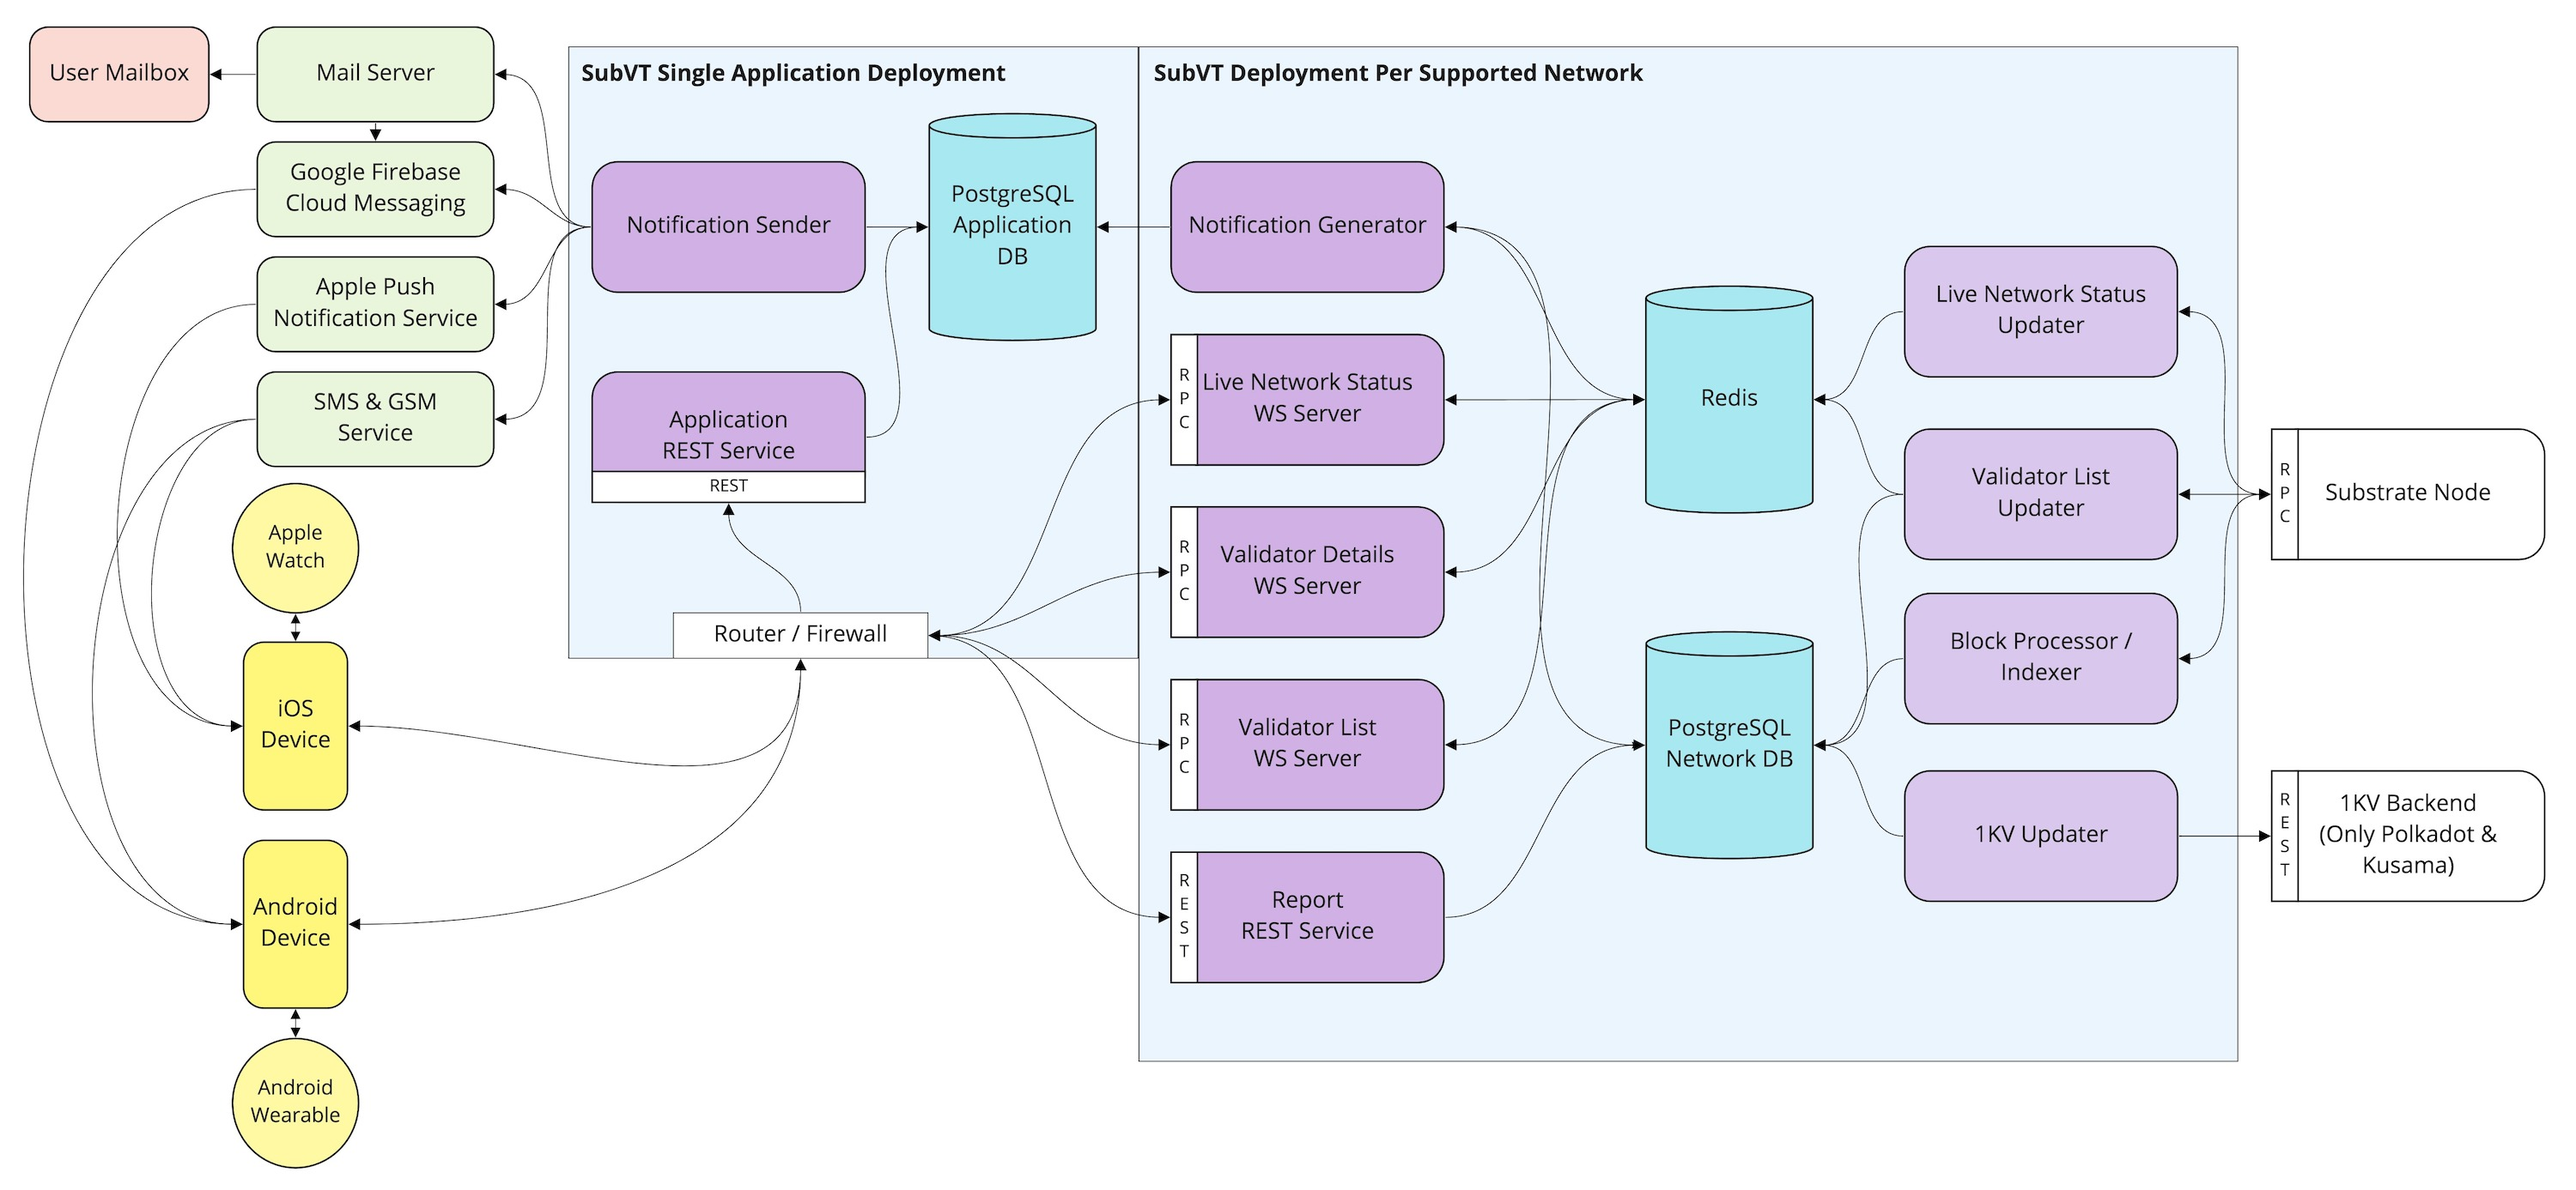
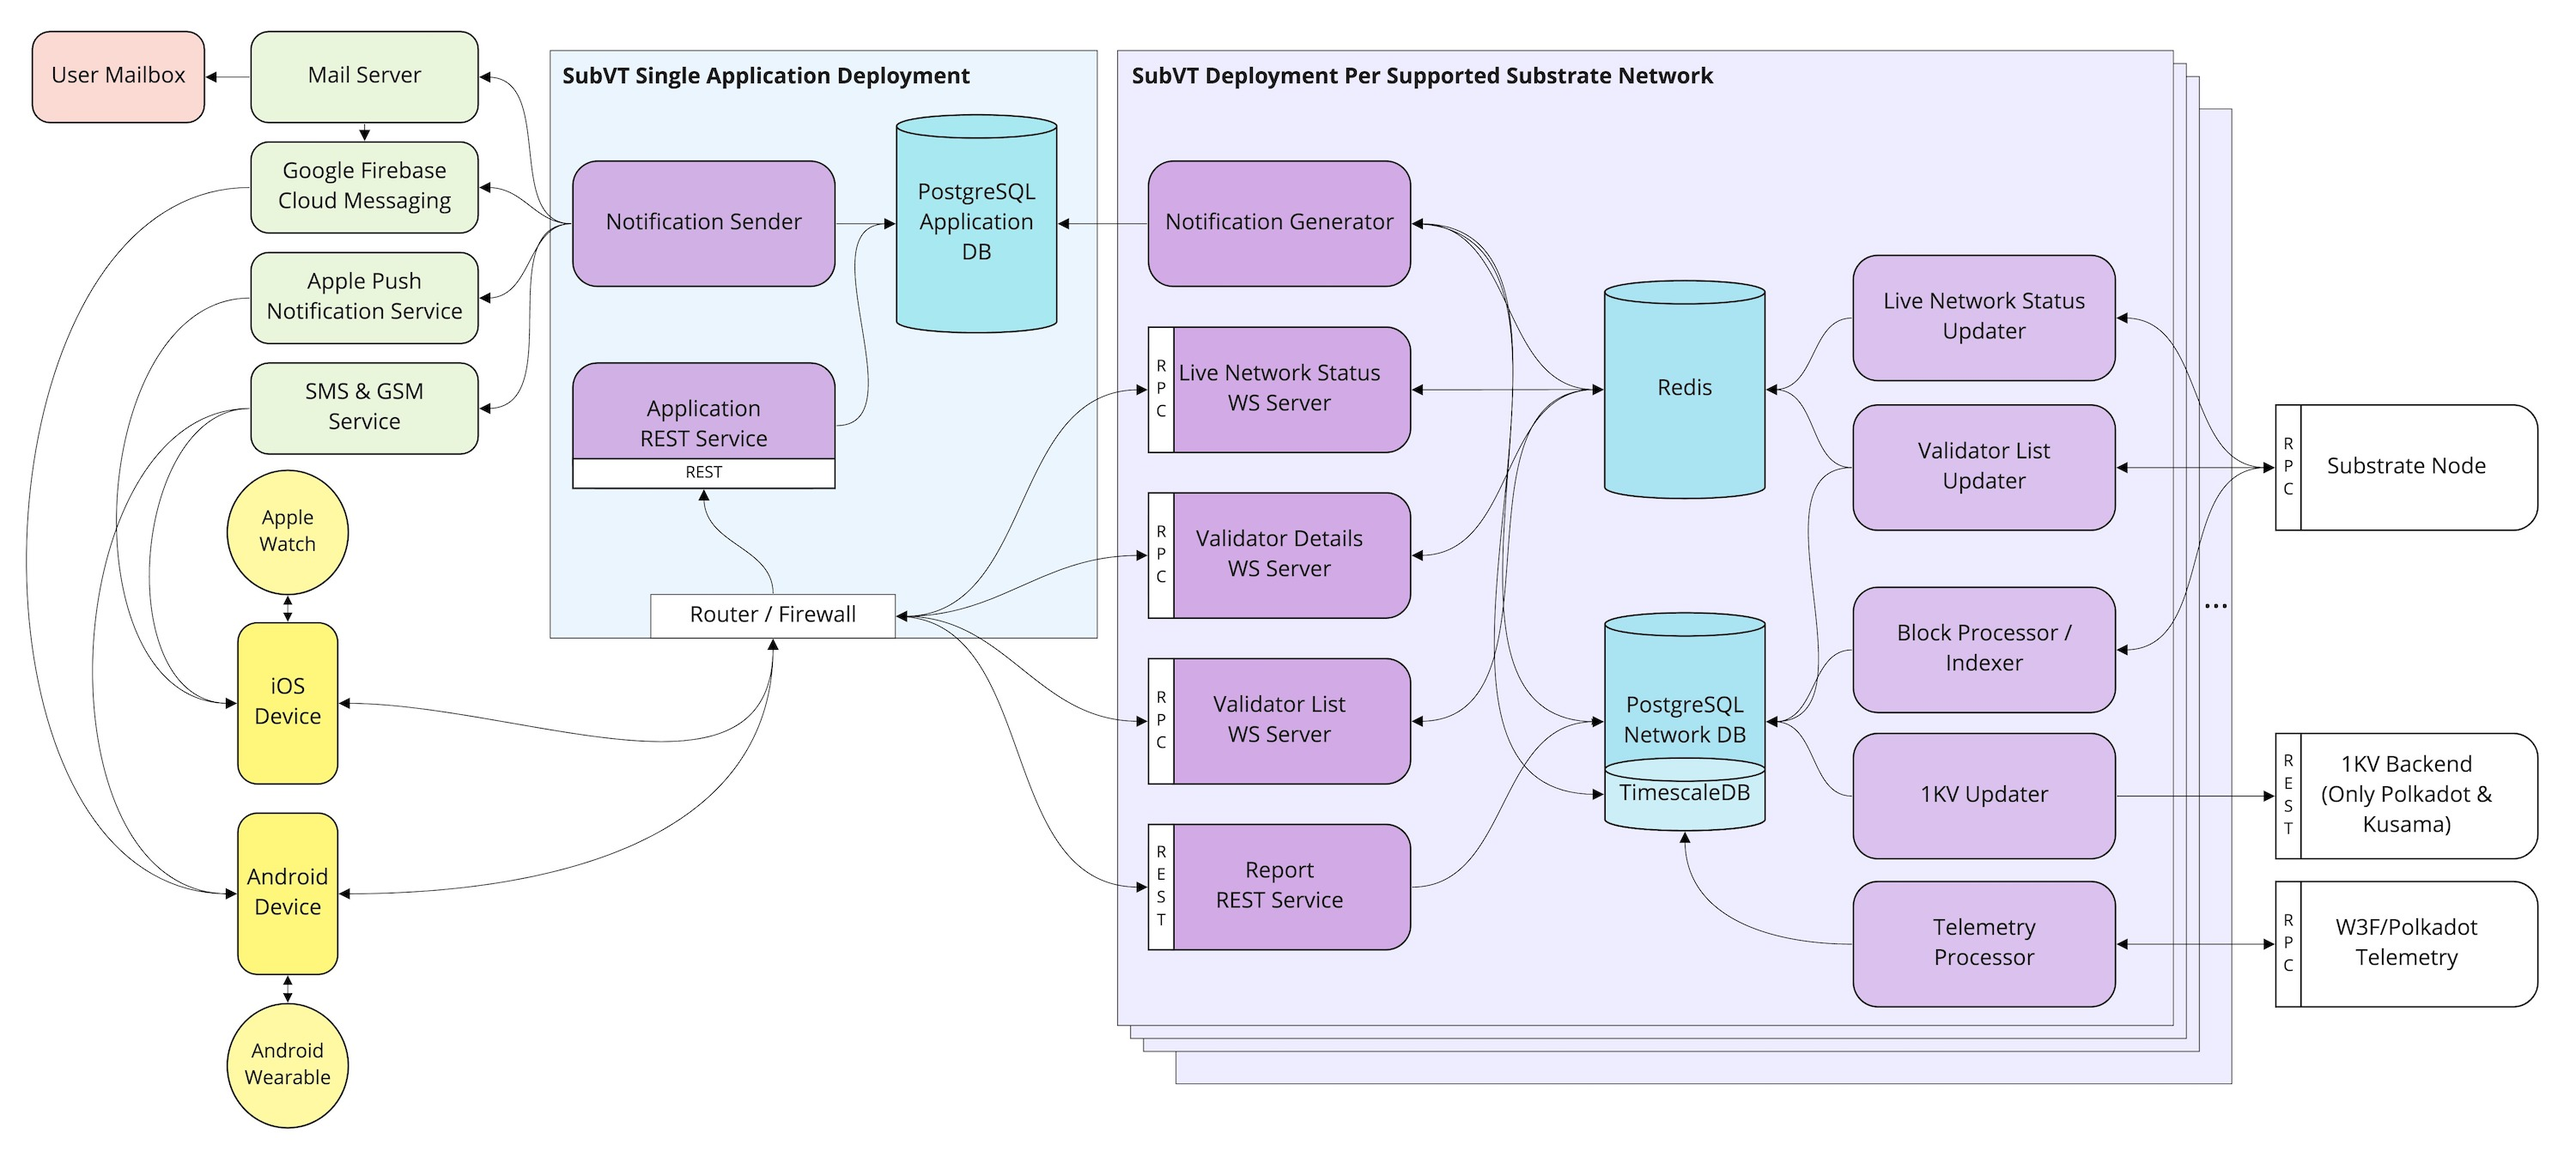
System architecture document initial version complete.

diff --git a/documents/software/01-subvt_system_architecture.md b/documents/software/01-subvt_system_architecture.md
@@ -1,20 +1,81 @@
-## SubVT System Architecture
+# SubVT System Architecture
 
 <p align="center">
 <a href="https://raw.githubusercontent.com/helikon-labs/subvt/main/documents/software/01-subvt_system_architecture_large.jpg" target="_blank"><img src="./01-subvt_system_architecture_small.jpg"/></a><br/>
-<i><b>Figure 1</b> SubVT system</i>
 </p>
 
-SubVT backend consists of the following components:
+## Components
 
-1. Block Processor/Indexer
-2. Live Network Status Updater
-3. Live Network Status WS Server
-4. Validator List Updater
-5. Validator List WS Server
-6. Validator Details WS Server
-7. 1KV Updater
-8. Notification Generator
-9. Notification Sender
-10. Report REST Service
-11. Application REST Service
+### 1. Block Processor/Indexer ([code](https://github.com/helikon-labs/subvt-backend/tree/main/subvt-block-processor))
+- Subscribes to the finalized blocks on the Substrate node using the SubVT Substrate [client](https://github.com/helikon-labs/subvt-backend/tree/main/subvt-substrate-client). 
+- Fetches and stores the events and extrinsics (only the ones that are of interest to SubVT, such as validate extrinsics, offline and rewarded events etc.) of each block in the PostgreSQL network database.
+- Stores era, era validator, era staker, total era points, era point per validator and more data as it moves block by block.
+- `NOTIFY`s the PostgreSQL network database. Notification generator subscribes to this notification, and scans the persisted block data for possible notification cases.
+
+### 2. Live Network Status Updater ([code](https://github.com/helikon-labs/subvt-backend/tree/main/subvt-live-network-status-updater))
+- With every new finalized block, fetches the network status data from the Subtrate node and stores it in the Redis in-memory database, and makes a `PUBLISH` call so that Redis can notify the network status server and notification server to carry out their related operations on the fresh network status data.
+- Network status data contains finalized and best block numbers and hashes, active era and current epoch, active and inactive validator counts, total stake, minimum/maximum/average/median validator stakes, and more information.
+
+### 3. Live Network Status WS Server ([code](https://github.com/helikon-labs/subvt-backend/tree/main/subvt-live-network-status-server))
+- Subscribes to the Redis notifications from the network status updater.
+- Accepts incoming WebSocket pub/sub connections through the configured port.
+- Provides two RPC methods: `subscribe_live_network_status` and `unsubscribe_live_network_status`.
+- Sends the complete network status data to the client on initial subscription, and then only sends the updated parts of the network status data after each new finalized block as long as the client remains connected.
+- Designed to provide data to the SubVT network status screen.
+
+### 4. Validator List Updater ([code](https://github.com/helikon-labs/subvt-backend/tree/main/subvt-validator-list-updater))
+- Every few blocks, fetches the complete inactive and active validator data from the Substrate node.
+- Also fetches the indexed validator data from the PostgreSQL network database such as account discovered/killed at, slashes, era reward points if active, heartbeat events, 1KV if exists, etc.
+- Prepares validator details and validator summary data, and stores all this data in Redis along with the hashes for each record, so that any component observing the records can figure out whether the records have changed by comparing the hashes, without the need to fetch the complete data.
+- `PUBLISH`es a Redis notification after the successful processing on a finalized block.
+
+### 5. Validator List WS Server ([code](https://github.com/helikon-labs/subvt-backend/tree/main/subvt-validator-list-server))
+- Subscribes to the Redis event published by the validator list updater.
+- Accepts incoming WebSocket pub/sub connections through the configured port.
+- Provides two RPC methods: `subscribe_validator_list` and `unsubscribe_validator_list`.
+- Sends the complete validator list data to the client on initial subscription, and then only sends the updated parts of the validator list data after each update from the validator list updater as long as the client remains connected.
+- Designed to provide data to the SubVT active and inactive validator list screens.
+
+### 6. Validator Details WS Server ([code](https://github.com/helikon-labs/subvt-backend/tree/main/subvt-validator-details-server))
+- Subscribes to the Redis event published by the validator list updater.
+- Accepts incoming WebSocket pub/sub connections through the configured port.
+- Provides two RPC methods: `subscribe_validator_list` and `unsubscribe_validator_list`, former with the validator account id in hex format as the first parameter.
+- Send the complete validator details data to the client on initial subscription, and then only sends the updated parts of the validator details data after each update from the validator list updater as long as the client remains connected.
+
+### 7. 1KV Updater ([code](https://github.com/helikon-labs/subvt-backend/tree/main/subvt-onekv-updater))
+- Fetches the complete candidate data from the 1KV backend (only Polkadot or Kusama).
+- Stores the candidate data in the PostgreSQL network database.
+- Data is then used to generate 1KV-related notifications, also served by the validator list and validator details services.
+
+### 8. Telemetry Processor ([code](https://github.com/helikon-labs/subvt-backend/tree/main/subvt-telemetry-processor))
+- Subscribed to the Telemetry feed of the configured Telemetry server (possibly W3F or Polkadot Telemetry servers).
+- Stores node data, and utilizes TimescaleDB extension for PostgreSQL to store node statistics (transaction count, peer count), hardware (upload/download bandwidth) time-series data.
+- Provides data to the notification generator component, which does regular checks on the time-series data for possible notification cases.
+
+### 9. Notification Generator ([code](https://github.com/helikon-labs/subvt-backend/tree/main/subvt-notification-generator))
+- Processes the indexed block (PostgreSQL), validator list (Redis) and Telemetry time-series (TimescaleDB) data for possible notifications.
+- Requires notification rules to be defined by the system or users.
+- Persists notifications into the PostgreSQL application database, soon to be processed by the notification sender.
+
+### 10. Notification Sender ([code](https://github.com/helikon-labs/subvt-backend/tree/main/subvt-notification-sender))
+- Processes the notifications persisted by the notification generator, and sends notifications to the appropriate channels (APNS, FCM, email, SMS, GSM, Telegram, etc.) as defined by the notification rules.
+- Uses different templates for different channels to generate notification content.
+
+### 11. Report REST Service ([code](https://github.com/helikon-labs/subvt-backend/tree/main/subvt-report-service))
+- Public REST services that serves era and era-validator reports.
+- Gets its data completely from the PostgreSQL network database.
+
+### 12. Application REST Service ([code](https://github.com/helikon-labs/subvt-backend/tree/main/subvt-app-service))
+- SubVT application-related public and secure REST services such as:
+    - `GET` network list.
+    - `GET` notification types.
+    - `GET` notification channels.
+    - `POST` new user.
+    - `POST` new notification channel for user (e.g. add a new email address or phone number for SMS).
+    - `POST` new notification rule for user.
+    - `DELETE` one of the user's notification rules.
+    - `POST` new validator for the user (i.e. bookmark).
+    - And many more.
+
+## Feasibility and Implementation
+Current model builds on top of the [initial proposal](https://docs.google.com/document/d/1mCD1lRoEwbV3Xp5N-HzEKA0KROCmNkMFInLGd4nAz-k/edit?usp=sharing), and is perfectly feasible as shown by the current [implementation](https://github.com/helikon-labs/subvt-backend).

diff --git a/documents/project/01-milestone_01_report.md b/documents/project/01-milestone_01_report.md
@@ -1,4 +1,4 @@
-## SubVT Milestone #1 Report
+# SubVT Milestone #1 Report
 
 First milestone of SubVT consisted of the following items and output:
 
@@ -9,7 +9,7 @@ First milestone of SubVT consisted of the following items and output:
 |System architecture design and feasability evaluation.|Architecture design and feasability evaluation report.|[link](../software/01-subvt_system_architecture.md)|
 |UI/UX designer search, calls and proposal evaluation.|Reported below.| |
 
-### UX/UI Design Team Search and Evaluation
+## UX/UI Design Team Search and Evaluation
 
 We interviewed 8 UX/UI design agencies (1 from our circles and 7 from [Dribbble](https://dribbble.com)) and 2 freelancers (1 from [Toptal](https://toptal.com) and the other from [Dribbble](https://dribbble.com)) after we prepared feature documentation as [issues](https://github.com/helikon-labs/subvt/issues?q=is%3Aopen+is%3Aissue+label%3Afeature) in the top-level project [repository](https://github.com/helikon-labs/subvt).
 
@@ -22,13 +22,13 @@ After the evaluation of each portfolio and proposal and initial calls, we decide
 
 We prepared a platform and data definition [document](https://docs.google.com/document/d/1gVGHBSqji-XJc6luvLDm3ilq08LMVb2hhC3EqZ5jr5Q/edit?usp=sharing) for Klad to help them with their undestanding of SubVT and its information architecture.
 
-### Backend Choices
+## Backend Choices
 
 We started with some research on what's available for Substrate in the Rust, Go, Java and Python spaces, and we decided to code the backend in Rust. Not to mention its inherent strengths, Rust makes it much easier to use the existing Substrate/Polkadot codebases, enables us to respond very quickly to runtime and metadata changes, and it is a good investment for our future Substrate projects.
 
 We designed the backend system [architecture](../software/01-backend_system_architecture.md) after a brief build-one-to-throw-away exploratory coding. Rest of the development effort in the first, [second](./02-milestone_02_report.md) and [third](./03-milestone_03_report.md) milestones was very heavy backend coding, and responding to Polkadot and Kusama runtime and metadata (especially v14) changes.
 
-### Evaluation of Substrate Client Libraries
+## Evaluation of Substrate Client Libraries
 
 For the backend, we developed our [custom Substrate client](https://github.com/helikon-labs/subvt-backend/tree/main/subvt-substrate-client) tailored specifically for SubVT's specific needs. There isn't going to be any signed operations or direct node communication from the SubVT iOS/Android apps in this first version. So we currently don't need an iOS/Android Substrate client library. Here is a list of open source repositories that we benefited from while developing the SubVT Substrate client:
 
